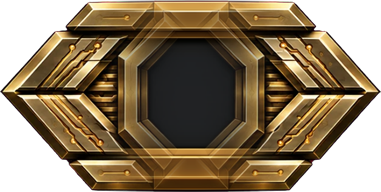
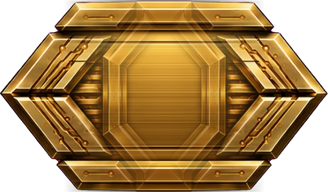
The row plates are gold through, and the ink goes dark
The panel is the same polished gold as the frame now, so the text on it is
dark: near-black for names and scores, a warmer brown for the level and the
quest count. Those colours are stated outright rather than taken from the
palette, because the surface under them is the artwork — it is the same gold
in the night palette and the day one.

Measuring the new plates needed a different method. The panel used to be the
darkest thing in the plate, so it could be found by looking for dark; now it
is the same metal as the frame, and the broad reflected band it carries reads
as a colour change of its own — a departure test came back claiming a panel
eleven percent tall. The boundary is not a change of colour but a change of
surface: the frame steps down into the panel over a bevel, and a bevel is a
sharp edge. Found by gradient instead, the reflected band scores low and the
milled step scores high, and the numbers came out sane: panels of 72%, 67%
and 44% of their plates' heights.

That last one is why the champions' row is 68px where the others are 42 — its
wings take the rest of the height. All three hold the same 30px of content.

Two details that only mattered once the ground turned gold: the rank emblem is
gold-and-ivory itself and the avatar's ring was a gold hairline, so both take
a dark edge rather than dissolving into the plate. And a row carries no rim of
its own — its frame is the artwork — so the focus ring that brightens a rim
[…]

diff --git a/styles.css b/styles.css
@@ -1165,28 +1165,35 @@ a:hover { color: var(--gold-text); }
 
    The plate is a dark surface in both themes, so the text on it is given
    light colours outright rather than the theme's ink. */
-/* Everything about how a plate is laid out follows from three numbers taken
+/* Everything about how a plate is laid out follows from four numbers taken
    off the drawing itself, each a share of that drawing's own height: how wide
-   its ornamental end is, how far in the dark panel starts, and where the
-   panel's top and bottom edges fall. They are written as ratios rather than
-   as pixels on purpose — a width typed in by hand is right at one row height
-   and wrong at the next, and the metal comes out stretched without anything
-   looking broken enough to notice.
+   its ornamental end is, how far in the panel starts, and where the panel's
+   top and bottom edges fall. They are written as ratios rather than as pixels
+   on purpose — a width typed in by hand is right at one row height and wrong
+   at the next, and the metal comes out stretched without anything looking
+   broken enough to notice.
 
-        plate       end L / R       panel starts    panel top / bottom
-        plain       .974  / .974    .766 / .756     .196 / .228
-        yours      1.063  / 1.078   .855 / .870     .201 / .232
-        champions  1.615  / 1.609   .672 / .674     .278 / .344
+        plate       end L / R       panel starts    panel top / bottom   panel
+        plain        .834 /  .834    .696            .122 / .152         72%
+        yours       1.034 / 1.060    .773            .131 / .193         67%
+        champions   1.456 / 1.460    .676            .295 / .263         44%
 
-   The champions' plate frames a panel only 38% of its own height, so it has
-   to be drawn 92px tall for two lines of text to fit inside the metal — half
-   again as tall as the rows below it, which is no loss: the first three have
-   earned a taller row. Its ends then measure 148px each, and the 62px inset
-   it needs is the deepest of the three, so every plate takes that one inset
-   and the columns run in a single line down the whole list.
+   Those numbers had to be measured a different way this time. The panel used
+   to be the darkest thing in the plate, so it could be found by looking for
+   dark; now it is the same gold as the frame, and the broad reflected band it
+   carries reads as a colour change of its own — a departure test came back
+   claiming a panel eleven percent tall. The boundary is not a change of
+   colour but a change of surface: the frame steps down into the panel over a
+   bevel, and a bevel is a sharp edge. Found by gradient, the reflected band
+   scores low and the milled step scores high.
 
-   The plate is a dark surface in both themes, so the text on it is given
-   light colours outright rather than the theme's ink. */
+   The champions' plate gives only 44% of its height to the panel, because its
+   wings take the rest, so it is drawn 68px tall where the others are 42 — all
+   three then hold the same 30px of content. The 46px inset it needs is the
+   deepest of the three, so every plate takes that one inset and the columns
+   run in a single line down the whole list.
+
+   The panel is polished gold now, so the text on it is dark. */
 .lb-row.lb-plate, .lb-row.lb-plate-you, .lb-row.lb-plate-top {
   /* A row is a <button>, and a button shrinks to fit its contents, so a row
      cannot be left to size itself — it would come out as wide as the name it
@@ -1202,34 +1209,53 @@ a:hover { color: var(--gold-text); }
 }
 .lb-row.lb-plate {
   border-image-source: url("assets/podium/row.png");
-  border-image-slice: 0 187 fill;
-  border-image-width: 0 calc(var(--rh) * .974);
-  padding: calc(var(--rh) * .196) var(--lb-inset) calc(var(--rh) * .228);
+  border-image-slice: 0 160 fill;
+  border-image-width: 0 calc(var(--rh) * .834);
+  padding: calc(var(--rh) * .122) var(--lb-inset) calc(var(--rh) * .152);
 }
 .lb-row.lb-plate-you {
   border-image-source: url("assets/podium/row-you.png");
-  border-image-slice: 0 207 0 204 fill;
-  border-image-width: 0 calc(var(--rh) * 1.078) 0 calc(var(--rh) * 1.063);
-  padding: calc(var(--rh) * .201) var(--lb-inset) calc(var(--rh) * .232);
+  border-image-slice: 0 203 0 199 fill;
+  border-image-width: 0 calc(var(--rh) * 1.060) 0 calc(var(--rh) * 1.034);
+  padding: calc(var(--rh) * .131) var(--lb-inset) calc(var(--rh) * .193);
 }
 .lb-row.lb-plate-top {
-  --rh: 92px;
+  --rh: 68px;
   border-image-source: url("assets/podium/row-top.png");
-  border-image-slice: 0 309 0 310 fill;
-  border-image-width: 0 calc(var(--rh) * 1.609) 0 calc(var(--rh) * 1.615);
-  padding: calc(var(--rh) * .278) var(--lb-inset) calc(var(--rh) * .344);
+  border-image-slice: 0 280 fill;
+  border-image-width: 0 calc(var(--rh) * 1.456);
+  padding: calc(var(--rh) * .295) var(--lb-inset) calc(var(--rh) * .263);
 }
-.lb-row[class*="lb-plate"] .lb-name { color: #f2ece1; }
-.lb-row[class*="lb-plate"] .lb-meta { color: #a49685; }
-.lb-row[class*="lb-plate"] .lb-quests { color: #8d8172; }
-.lb-row[class*="lb-plate"] .lb-total { color: #f0cf94; }
-.lb-row[class*="lb-plate"] .lb-pos { color: #9a8d7d; }
-/* Each plate leaves a fixed panel to write in, so the two lines of a row
-   have to stay two lines and stay inside it — a wrapped rank line, or a pair
-   of default line boxes, pushes out onto the metal. */
-.lb-row[class*="lb-plate"] .lb-meta { overflow: hidden; text-overflow: ellipsis; white-space: nowrap; }
-.lb-row[class*="lb-plate"] .lb-player { gap: 1px; line-height: 1.2; }
-button.lb-row-btn[class*="lb-plate"]:hover { background: none; filter: brightness(1.12); }
+
+/* Dark ink on gold. These are stated outright rather than taken from the
+   palette because the surface under them is the artwork, not the theme: it is
+   the same gold in the night palette and the day one. */
+.lb-row[class*="lb-plate"] .lb-name { color: #1d1608; }
+.lb-row[class*="lb-plate"] .lb-lv { color: #4a3a18; }
+.lb-row[class*="lb-plate"] .lb-quests { color: #55431d; }
+.lb-row[class*="lb-plate"] .lb-total { color: #23190a; }
+.lb-row[class*="lb-plate"] .lb-pos { color: #4a3a18; }
+.lb-row[class*="lb-plate"] .lb-pos.gold,
+.lb-row[class*="lb-plate"] .lb-pos.silver,
+.lb-row[class*="lb-plate"] .lb-pos.bronze { color: #23190a; }
+.lb-row[class*="lb-plate"] .lb-you-tag { color: #1d1608; border-color: rgba(29, 22, 8, .45); }
+.lb-row[class*="lb-plate"] .lb-move.up { color: #1c4a22; }
+.lb-row[class*="lb-plate"] .lb-move.down { color: #6d2013; }
+.lb-row[class*="lb-plate"] .lb-move.same { color: rgba(29, 22, 8, .42); }
+
+/* Two things that were drawn to sit on dark and now sit on gold: the rank
+   emblem is gold-and-ivory itself, and the avatar's ring was a gold hairline.
+   Both get a dark edge so they do not dissolve into the plate. */
+.lb-row[class*="lb-plate"] .lb-rank { filter: drop-shadow(0 1px 1px rgba(0, 0, 0, .5)); }
+.lb-row[class*="lb-plate"] .av { box-shadow: 0 0 0 1px rgba(20, 14, 4, .55), inset 0 1px 3px rgba(0, 0, 0, .5); }
+
+/* A row carries no rim of its own — its frame is the artwork — so the focus
+   ring that follows the cut elsewhere has nothing to brighten here. An inset
+   ring reads on gold and stays inside the plate. */
+button.lb-row-btn[class*="lb-plate"]:focus-visible {
+  outline: none; box-shadow: inset 0 0 0 2px rgba(29, 22, 8, .85);
+}
+button.lb-row-btn[class*="lb-plate"]:hover { background: none; filter: brightness(1.06); }
 /* The sticky copy of your row needs no card of its own — the plate is one. */
 .lb-sticky { background: none; box-shadow: none; border-radius: 0; }
 
@@ -1274,10 +1300,10 @@ button.lb-row-btn[class*="lb-plate"]:hover { background: none; filter: brightnes
 /* The tab bar holds seven pages plus settings — eight for an admin — so the
    per-item padding has to give way before the icons do. */
 @media (max-width: 420px) {
-  /* Two ends of 148px and a name do not fit across a small phone, so the
-     champions' plate gives up height — its ends come in with it. */
-  .lb-row.lb-plate-top { --rh: 82px; }
-  .lb-row { --lb-inset: 56px; }
+  /* The champions' plate's ends measure 1.46 times its height, so on a small
+     phone it gives up some of that height and its ends come in with it. */
+  .lb-row.lb-plate-top { --rh: 58px; }
+  .lb-row { --lb-inset: 40px; }
   .podium { --pod-k: .84; }
   /* Twelve tabs on a phone: the icons give up a couple of pixels each so the
      bar fits without scrolling. */
@@ -2554,14 +2580,13 @@ button.lb-row-btn:hover { background: var(--gold-soft); }
    the plain frame leaves 58% of its height to write in and the champions'
    leaves 38%, which is why they are not the same height. The shared inset is
    the deeper of the two panels. */
-.lb-row { --rh: 52px; --lb-inset: 46px; grid-template-columns: 28px 26px 1fr auto 76px; }
-.lb-row.lb-plate-top { --rh: 58px; }
+.lb-row { --rh: 42px; --lb-inset: 46px; grid-template-columns: 28px 26px 1fr auto 76px; }
 @media (min-width: 1400px) {
   .lb-row { grid-template-columns: 30px 26px 1fr auto 52px 76px; }
 }
 @media (max-width: 780px) {
-  .lb-row { --rh: 50px; --lb-inset: 44px; grid-template-columns: 22px 22px 1fr auto 62px; gap: 6px; }
-  .lb-row.lb-plate-top { --rh: 56px; }
+  .lb-row { --rh: 40px; --lb-inset: 44px; grid-template-columns: 22px 22px 1fr auto 62px; gap: 6px; }
+  .lb-row.lb-plate-top { --rh: 64px; }
 }
 /* A small phone cannot fit the level as well; the emblem alone still says
    which rank this is. */

diff --git a/sw.js b/sw.js
@@ -2,7 +2,7 @@
 // fresh from the network (so an edit + redeploy shows up the next time you
 // open the app — no reinstall needed) and quietly cached as an offline
 // fallback. Only when the network fails does it serve the last cached copy.
-const CACHE_NAME = "the-system-v114";
+const CACHE_NAME = "the-system-v115";
 const CORE_ASSETS = [
   "./", "./index.html", "./styles.css", "./manifest.json",
   "./js/i18n.js", "./js/constants.js", "./js/storage.js", "./js/engine.js", "./js/state-merge.js", "./js/planner.js", "./js/planner-sync.js", "./js/cloud.js",
